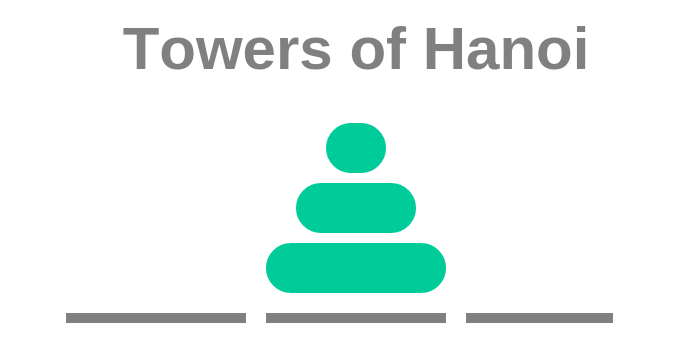
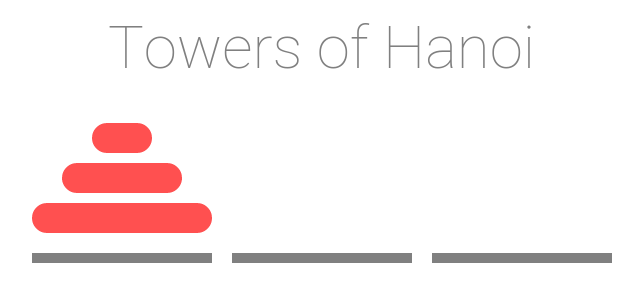
added index, back buttons to games

diff --git a/index.html b/index.html
@@ -1,0 +1,129 @@
+<!DOCTYPE html>
+<html>
+  <head>
+    <style>
+      html, body {
+        padding: 0px;
+        margin: 0px;
+        font-family: 'Roboto';
+        font-weight: 300;
+      }
+
+      a {
+        text-decoration: none;
+        color: #000;
+      }
+
+      a:visited {
+        text-decoration: none;
+        color: #000;
+      }
+
+      .header {
+        width: 100%;
+        height: 50px;
+        position: absolute;
+        display: block;
+      }
+
+      .content {
+        position: absolute;
+        top: 0;
+        bottom: 0;
+        right: 0;
+        left: 0;
+        width: 30%;
+        height: 100vh;
+        margin-right: auto;
+        margin-left: auto;
+        border-left: 1px solid #ccc;
+        border-right: 1px solid #ccc;
+      }
+
+      .games-ul {
+        margin-top: 50%;
+        margin-bottom: 50%;
+        padding-left: 0px;
+      }
+
+      .games-ul > div {
+        width: 500px;
+        height: 50px;
+        margin-left: auto;
+        margin-right: auto;
+        text-align: center;
+      }
+
+      .game-preview {
+        position: absolute;
+        margin-left: auto;
+        margin-right: auto;
+      }
+
+      .s {
+        margin-left: -25px;
+      }
+
+      .t {
+        margin-left: -38px;
+      }
+
+      .h {
+        margin-left: -60px;
+      }
+
+      h3 {
+        padding-top: 12px;
+        font-size: 20px;
+        font-weight: 300;
+      }
+    </style>
+    <link href='http://fonts.googleapis.com/css?family=Roboto:400,100' rel='stylesheet' type='text/css'>
+    <meta charset="utf-8">
+    <title>jsGames</title>
+    <link rel="stylesheet" type="text/css" href="./style.css">
+  </head>
+  <body>
+    <script src="./snake/jquery-2.1.1.js"></script>
+
+    <div class='header'>
+    </div>
+
+    <div class='content'>
+      <ul class='games-ul'>
+        <div><a href='./asteroid/index.html'><h3>Asteroids</h3></a>
+          <div class='game-preview' style='display: none'>
+            <img class='a' src='./asteroid/preview.png'>
+          </div>
+        </div>
+        <div><a href='./snake/index.html'><h3>Snake</h3></a>
+          <div class='game-preview' style='display: none'>
+            <img class='s' src='./snake/preview.png' width='550' height='550'>
+          </div>
+        </div>
+        <div><a href='./ttt/index.html'><h3>tic-tac-toe</h3></a>
+          <div class='game-preview' style='display: none'>
+            <img class='t' src='./ttt/preview.png' width='600' height='600'>
+          </div>
+        </div>
+        <div><a href='./hanoi/html/index.html'><h3>Towers of Hanoi</h3></a>
+          <div class='game-preview' style='display: none'>
+            <img class='h' src='./hanoi/preview.png' width='640' height='300'>
+          </div>
+        </div>
+      </ul>
+    </div>
+
+    <script>
+      $('.games-ul div a').mouseenter(function () {
+        $(event.target.parentElement.parentElement.children[1]).show();
+      });
+
+      $('.games-ul div a').mouseleave(function () {
+        $(event.target.parentElement.parentElement.children[1]).hide();
+
+      });
+    </script>
+
+  </body>
+</html>

diff --git a/snake/index.html b/snake/index.html
@@ -8,6 +8,9 @@
   </head>
 
   <body>
+    <br><br>
+    <a href='../index.html'>back</a>
+
     <h1>Snake</h1>
 
     <figure class="snake-game"></figure>
@@ -20,5 +23,9 @@
         SG.currentGame = new SG.View($(".snake-game"));
       });
     </script>
+
+    <br><h4 style="display: none">You lose.</h4>
+
+    <br><br><a style="display: none" class="play-again" href="./index.html">play again?</a>
   </body>
 </html>

diff --git a/hanoi/css/hanoi.css b/hanoi/css/hanoi.css
@@ -6,6 +6,16 @@ html, body, figure, figcaption, ul, li, h1 {
   text-align: inherit;
 }
 
+a {
+  text-decoration: none;
+  color: #000;
+}
+
+a:visited {
+  color: #000;
+  text-decoration: none;
+}
+
 figure {
   margin: 0 auto;
   width: 580px;
@@ -64,7 +74,7 @@ ul:nth-child(2) {
 li {
   width: 0px;
   margin: 10px auto;
-  height: 50px;
+  height: 30px;
   background: #FF5050;
   border-radius: 25px;
 }

diff --git a/snake/snake-view.js b/snake/snake-view.js
@@ -79,9 +79,9 @@
       this.board.snake.move();
       this.render();
     } else {
-      $("body").append('<br><h4>You lose.</h4>');
+      $('h4').show();
       window.setTimeout(function() {
-        $("body").append('<br><br><a href="./index.html">play again?</a>');
+        $(".play-again").show();
       }, 1000);
       window.clearInterval(this.intervalId);
     }

diff --git a/hanoi/html/index.html b/hanoi/html/index.html
@@ -12,6 +12,9 @@
     <script src="../hanoi-core-solution/hanoi-core.js"></script>
     <script src="../js/hanoi-view.js"></script>
 
+    <br><br>
+    <a href='../index.html'>back</a>
+
     <h1>Towers of Hanoi</h1>
     <figure class='towers-of-hanoi group'>
     </figure>

diff --git a/ttt/index.html b/ttt/index.html
@@ -11,6 +11,9 @@
     <script src="./ttt-core-solution/ttt-core.js"></script>
     <script src="./js/ttt-view.js"></script>
 
+    <br><br>
+    <a href='../index.html'><h4>back</h4></a>
+
     <h1>Tic Tac Toe</h1>
     <figure class='tic-tac-toe'>
     </figure>

diff --git a/ttt/css/ttt.css b/ttt/css/ttt.css
@@ -6,6 +6,24 @@ body {
   color: #aaa;
 }
 
+a {
+  text-decoration: none;
+}
+
+a:hover {
+  text-decoration: none;
+  color: #aaa;
+}
+
+a:visited {
+  text-decoration: none;
+  color: #aaa;
+}
+
+h4 {
+  font-size: 16px;
+}
+
 .h1 {
   margin: 0 auto;
 }

diff --git a/style.css b/style.css
@@ -1,0 +1,5 @@
+body {
+  font-family: 'Roboto';
+  font-weight: 300;
+  font-size: 12px;
+}
